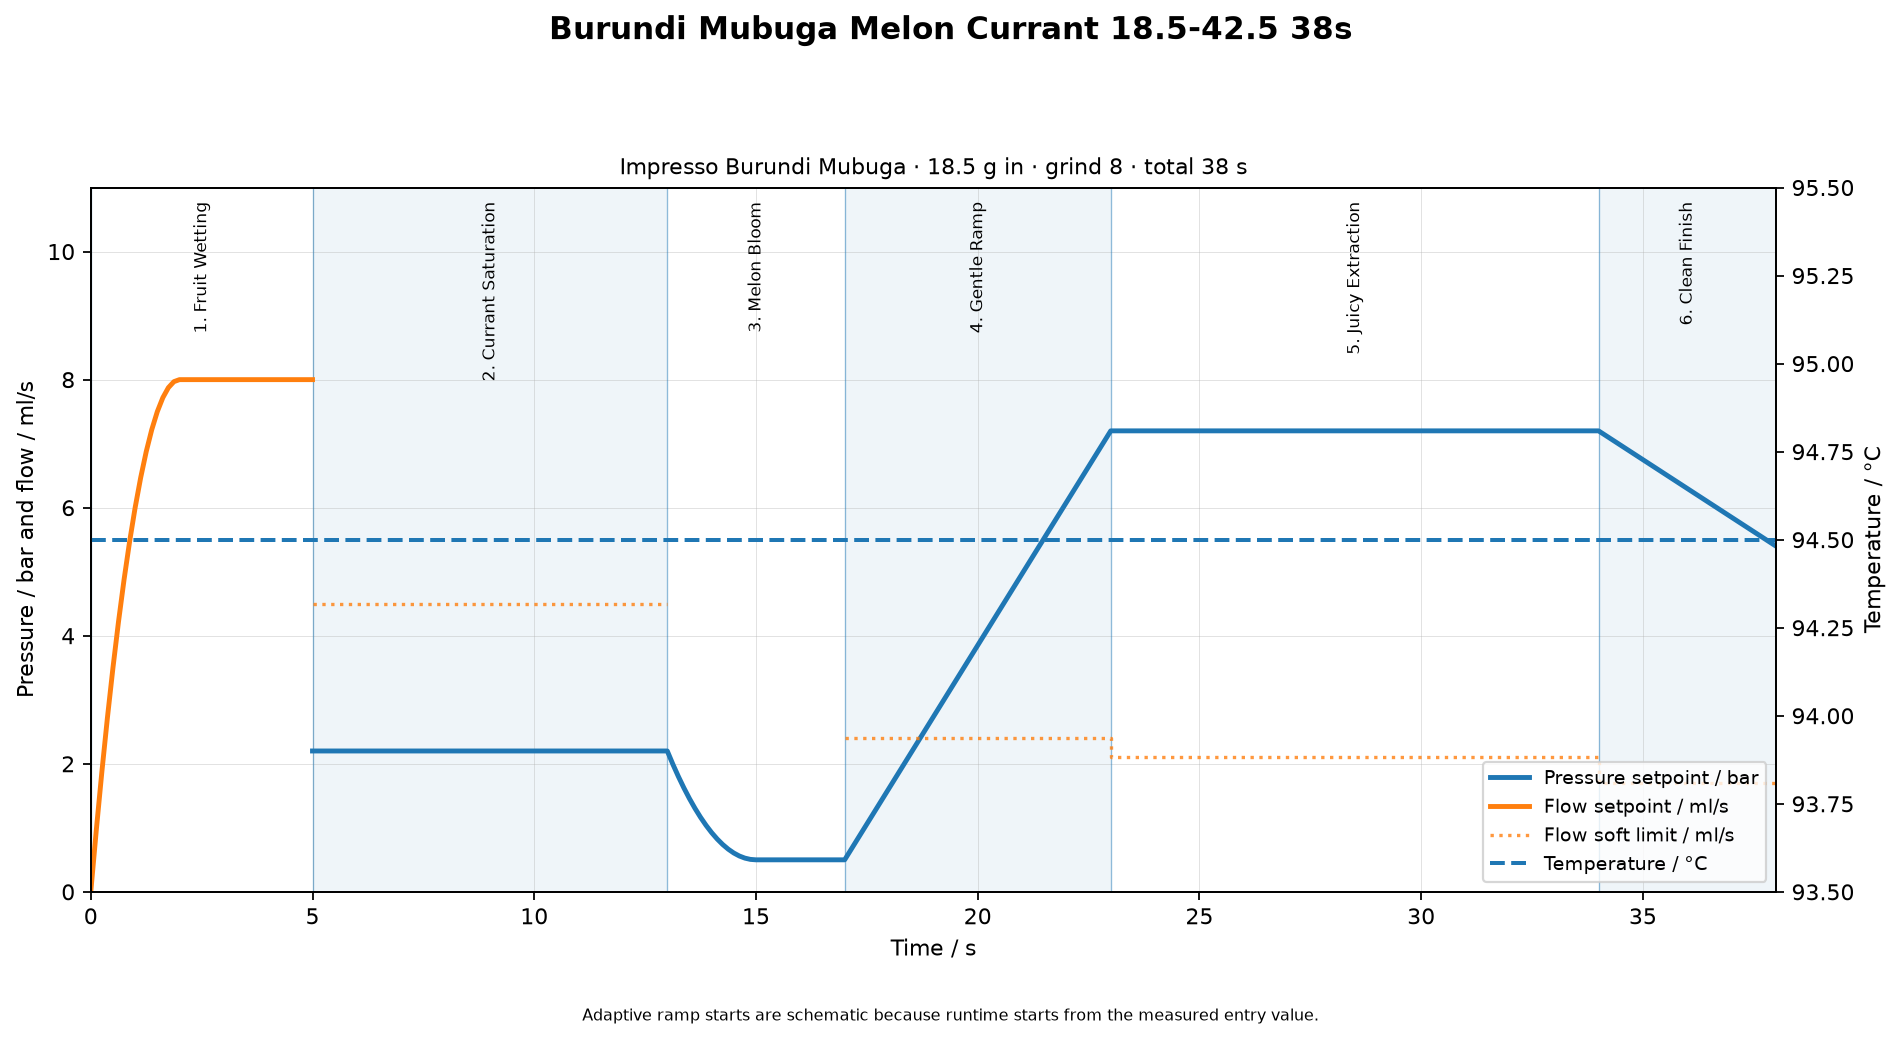
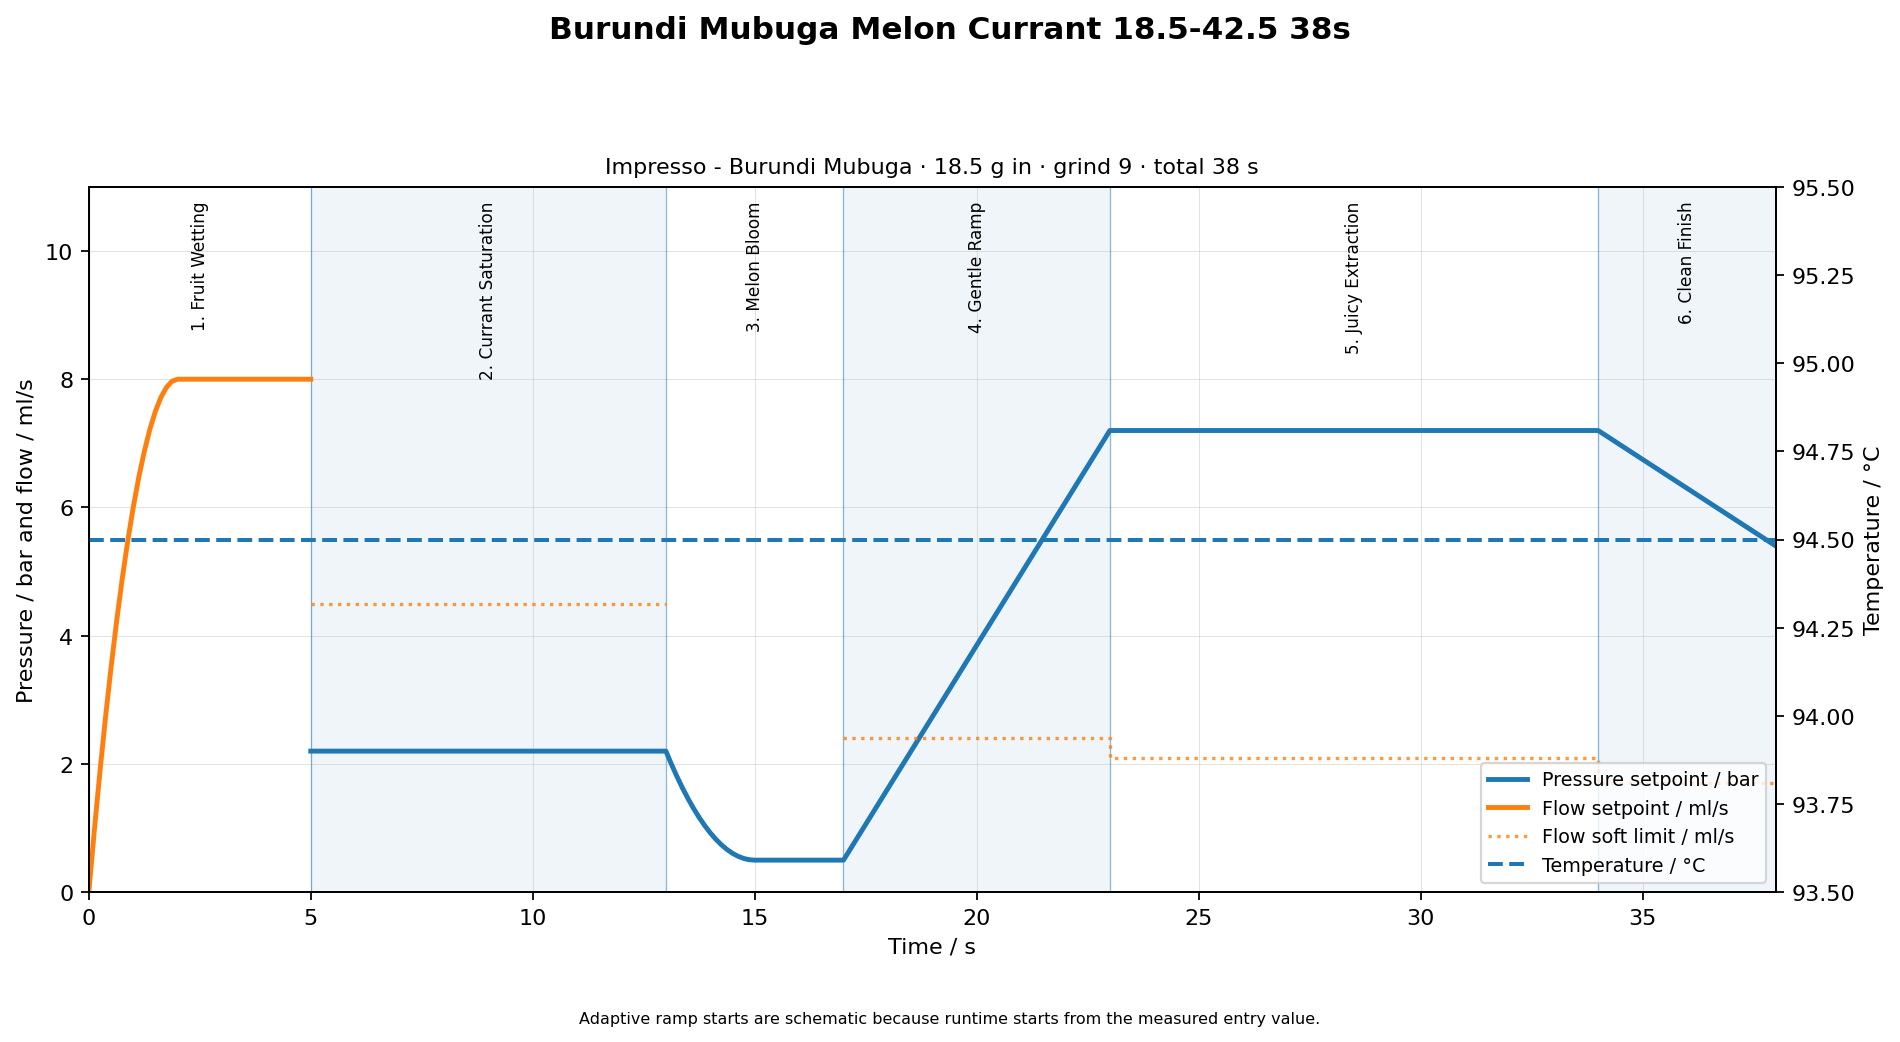
no message

diff --git a/README.md b/README.md
@@ -27,7 +27,7 @@ A JSON profilokat a GaggiMate Web UI-ban lehet importálni: **Profiles → Impor
 | Kávé | Profil | JSON | Grafikon | Recept |
 |---|---|---|---|---|
 | Impresso - Kenya Wangera | Stable Start 38s 94.5C | [`wangera-manual-v2.json`](profiles/wangera/wangera-manual-v2.json) | [`wangera-profile.png`](profiles/wangera/wangera-profile.png) | [`wangera-recipe.md`](profiles/wangera/wangera-recipe.md) |
-| Impresso - Burundi Mubuga | Melon Currant 38s | [`burundi-mubuga-manual.json`](profiles/burundi-mubuga/burundi-mubuga-manual.json) | [`burundi-mubuga-profile.png`](profiles/burundi-mubuga/burundi-mubuga-profile.png) | [`burundi-mubuga-recipe.md`](profiles/burundi-mubuga/burundi-mubuga-recipe.md) |
+| Impresso - Burundi Mubuga | Melon Currant 38s | [`burundi-mubuga-manual.json`](profiles/burundi-mubuga/burundi-mubuga-manual.json) | [`burundi-mubuga-manual-profile.png`](profiles/burundi-mubuga/burundi-mubuga-manual-profile.png) | [`burundi-mubuga-recipe.md`](profiles/burundi-mubuga/burundi-mubuga-recipe.md) |
 | Impresso - Colombia Manos Juntas | Jam Mango 39s | [`colombia-manos-juntas-manual.json`](profiles/colombia-manos-juntas/colombia-manos-juntas-manual.json) | [`colombia-manos-juntas-profile.png`](profiles/colombia-manos-juntas/colombia-manos-juntas-profile.png) | [`colombia-manos-juntas-recipe.md`](profiles/colombia-manos-juntas/colombia-manos-juntas-recipe.md) |
 | Impresso - Kenya Kirinyaga PB | Tea Rose 37s | [`kirinyaga-manual.json`](profiles/kirinyaga/kirinyaga-manual.json) | [`kirinyaga-profile.png`](profiles/kirinyaga/kirinyaga-profile.png) | [`kirinyaga-recipe.md`](profiles/kirinyaga/kirinyaga-recipe.md) |
 | 28 - Finca el Recreo Caturron | Flavor 42s | [`caturron-manual.json`](profiles/twenty-eight-caturron/caturron-manual.json) | [`twenty-eight-caturron-profile.png`](profiles/twenty-eight-caturron/twenty-eight-caturron-profile.png) | [`twenty-eight-caturron-recipe.md`](profiles/twenty-eight-caturron/twenty-eight-caturron-recipe.md) |
@@ -41,7 +41,7 @@ A JSON profilokat a GaggiMate Web UI-ban lehet importálni: **Profiles → Impor
 |---|---|---:|---:|
 | Impresso - Kenya Wangera | [`wangera-scale-v2.json`](profiles/wangera/wangera-scale-v2.json) | 42.0 g | 45 s |
 | Impresso - Kenya Wangera (94.0 C) | [`wangera-scale-v1.json`](profiles/wangera/wangera-scale-v1.json) | 42.0 g | 45 s |
-| Impresso - Burundi Mubuga | [`burundi-mubuga-scale.json`](profiles/burundi-mubuga/burundi-mubuga-scale.json) | 42.5 g | 45 s |
+| Impresso - Burundi Mubuga | [`burundi-mubuga-scale-v4-fruity.json`](profiles/burundi-mubuga/burundi-mubuga-scale-v4-fruity.json) | 42.5 g | 64 s |
 | Impresso - Colombia Manos Juntas | [`colombia-manos-juntas-scale.json`](profiles/colombia-manos-juntas/colombia-manos-juntas-scale.json) | 43.0 g | 47 s |
 | Impresso - Kenya Kirinyaga PB | [`kirinyaga-scale.json`](profiles/kirinyaga/kirinyaga-scale.json) | 43.0 g | 45 s |
 | 28 - Finca el Recreo Caturron | [`caturron-scale.json`](profiles/twenty-eight-caturron/caturron-scale.json) | 42.0 g | 50 s |
@@ -116,9 +116,9 @@ A `targets` tömb **fázis szintű** — minden phase-hez külön definiálható
 
 ![Wangera Stable Start 38s 94.5C](profiles/wangera/wangera-profile.png)
 
-### Burundi Mubuga Melon Currant 38s
+### Burundi Mubuga Melon Currant – Scale V4 Fruity
 
-![Burundi Mubuga Melon Currant 38s](profiles/burundi-mubuga/burundi-mubuga-profile.png)
+![Burundi Mubuga Melon Currant Scale V4 Fruity](profiles/burundi-mubuga/burundi-mubuga-scale-v4-fruity-profile.png)
 
 ### Colombia Manos Juntas Jam Mango 39s
 

diff --git a/SUMMARY.md b/SUMMARY.md
@@ -17,7 +17,7 @@
 |---|---:|---|---:|---:|---|
 | Kenya Wangera | 42.0 g | 1:2.27 | 94.5 °C | 45 s | [wangera-scale-v2.json](profiles/wangera/wangera-scale-v2.json) |
 | Kenya Wangera (94C) | 42.0 g | 1:2.27 | 94.0 °C | 45 s | [wangera-scale-v1.json](profiles/wangera/wangera-scale-v1.json) |
-| Burundi Mubuga | 42.5 g | 1:2.30 | 94.5 °C | 45 s | [burundi-mubuga-scale.json](profiles/burundi-mubuga/burundi-mubuga-scale.json) |
+| Burundi Mubuga | 42.5 g | 1:2.30 | 94.0 °C | 64 s | [burundi-mubuga-scale-v4-fruity.json](profiles/burundi-mubuga/burundi-mubuga-scale-v4-fruity.json) |
 | Colombia Manos Juntas | 43.0 g | 1:2.32 | 94.5 °C | 47 s | [colombia-manos-juntas-scale.json](profiles/colombia-manos-juntas/colombia-manos-juntas-scale.json) |
 | Kenya Kirinyaga PB | 43.0 g | 1:2.32 | 94.5 °C | 45 s | [kirinyaga-scale.json](profiles/kirinyaga/kirinyaga-scale.json) |
 | 28 Caturron | 42.0 g | 1:2.27 | 95.0 °C | 50 s | [caturron-scale.json](profiles/twenty-eight-caturron/caturron-scale.json) |
@@ -42,7 +42,7 @@
 | Kávé | Profil | Idő | Hő | Dózis | Célhozam | Őrlés | JSON | Recept |
 |---|---|---:|---:|---:|---:|---:|---|---|
 | Kenya Wangera | Stable Start | 38 s | 94.5 °C | 18.5 g | 42 g | 10-11 | [wangera-manual-v2.json](profiles/wangera/wangera-manual-v2.json) | [wangera-recipe.md](profiles/wangera/wangera-recipe.md) |
-| Burundi Mubuga | Melon Currant | 38 s | 94.5 °C | 18.5 g | 42.5 g | 10-11 | [burundi-mubuga-manual.json](profiles/burundi-mubuga/burundi-mubuga-manual.json) | [burundi-mubuga-recipe.md](profiles/burundi-mubuga/burundi-mubuga-recipe.md) |
+| Burundi Mubuga | Melon Currant | 38 s | 94.5 °C | 18.5 g | 42.5 g | 8-9 | [burundi-mubuga-manual.json](profiles/burundi-mubuga/burundi-mubuga-manual.json) | [burundi-mubuga-recipe.md](profiles/burundi-mubuga/burundi-mubuga-recipe.md) |
 | Colombia Manos Juntas | Jam Mango | 39 s | 94.5 °C | 18.5 g | 43 g | 10-11 | [colombia-manos-juntas-manual.json](profiles/colombia-manos-juntas/colombia-manos-juntas-manual.json) | [colombia-manos-juntas-recipe.md](profiles/colombia-manos-juntas/colombia-manos-juntas-recipe.md) |
 | Kenya Kirinyaga PB | Tea Rose | 37 s | 94.5 °C | 18.5 g | 43 g | 9-10 | [kirinyaga-manual.json](profiles/kirinyaga/kirinyaga-manual.json) | [kirinyaga-recipe.md](profiles/kirinyaga/kirinyaga-recipe.md) |
 | 28 Caturron | Flavor | 42 s | 95 °C | 18.5 g | 42 g | 8-10 | [caturron-manual.json](profiles/twenty-eight-caturron/caturron-manual.json) | [twenty-eight-caturron-recipe.md](profiles/twenty-eight-caturron/twenty-eight-caturron-recipe.md) |
@@ -92,7 +92,7 @@
 
 ### Burundi Mubuga – Melon Currant 38s
 
-![Burundi Mubuga](profiles/burundi-mubuga/burundi-mubuga-profile.png)
+![Burundi Mubuga](profiles/burundi-mubuga/burundi-mubuga-manual-profile.png)
 
 ### Colombia Manos Juntas – Jam Mango 39s
 

diff --git a/PROFILE_GALLERY.md b/PROFILE_GALLERY.md
@@ -30,7 +30,7 @@ Ezek a profilok időalapúak. A shot a beállított másodpercig fut; a hozamot 
 
 ### Burundi Mubuga Melon Currant 38s – Time Based
 
-![Burundi Mubuga Melon Currant 38s](profiles/burundi-mubuga/burundi-mubuga-profile.png)
+![Burundi Mubuga Melon Currant 38s](profiles/burundi-mubuga/burundi-mubuga-manual-profile.png)
 
 ### Colombia Manos Juntas Jam Mango 39s – Time Based
 
@@ -61,6 +61,14 @@ Ezek a profilok BOOKOO Themis Ultra Bluetooth mérleggel automatikusan megállna
 ### Wangera Stable Start 94.0C – Scale V2
 
 ![Wangera Scale V2 94.0C](profiles/wangera/wangera-scale-v1-profile.png)
+
+### Burundi Mubuga Melon Currant – Scale V4 Fruity (aktuális)
+
+![Burundi Mubuga Scale V4 Fruity](profiles/burundi-mubuga/burundi-mubuga-scale-v4-fruity-profile.png)
+
+### Burundi Mubuga Melon Currant – Scale V3
+
+![Burundi Mubuga Scale V3](profiles/burundi-mubuga/burundi-mubuga-scale-v3-profile.png)
 
 ### Burundi Mubuga Melon Currant – Scale V2
 
